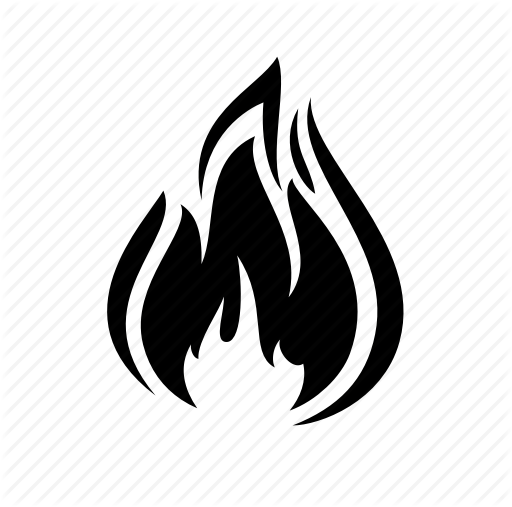
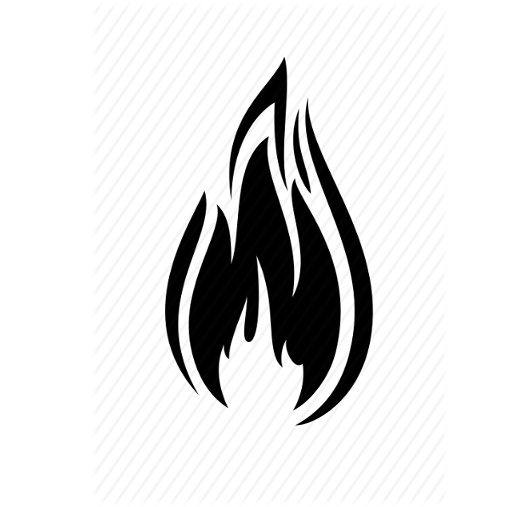
added pictures and fire

Changed region(s): [[0.1875, 0.1183, 0.8125, 0.858]]

diff --git a/index.html b/index.html
@@ -251,7 +251,7 @@
                                 </li>
                                 <li class='nav-item'>
                                     <button class='nav-link btn subButton mid'>
-                                        <img class='navImg logo' src='logo.png'>Fire</img>
+                                        <img class='navImg logo' src='pictures/fire.png'>Fire</img>
                                     </button>
                                 </li>
                                 <li class='nav-item'>
